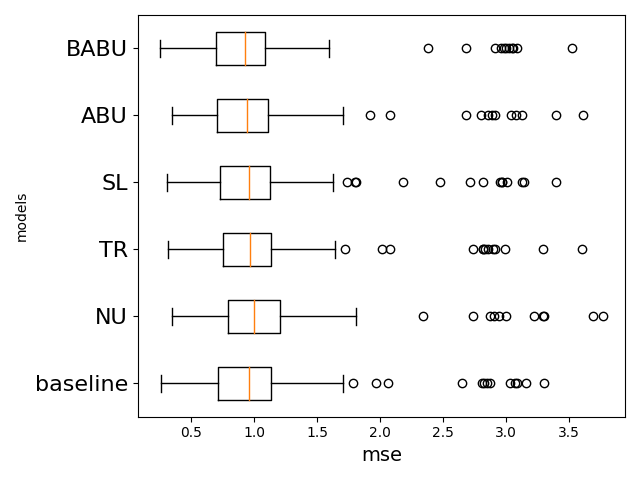
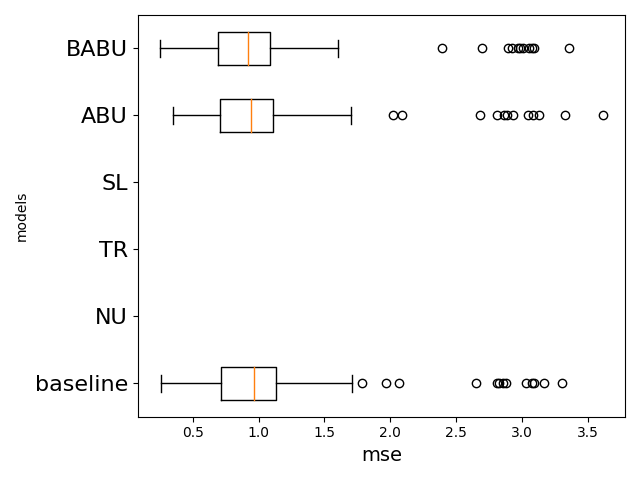
abu and babu seems fine for mse and poisson, need to fix for the other methods aswell

diff --git a/include/stabletrees/trees/tree.hpp b/include/stabletrees/trees/tree.hpp
@@ -36,7 +36,7 @@ class Tree{
         explicit Tree(); 
         bool all_same(const dVector &vec);
         bool all_same_features_values(const dMatrix  &X);
-        virtual Node* build_tree(const dMatrix  &X, const dVector &y, const dVector &g, const dVector &h, int depth, Node* previuos_tree_node);
+        virtual Node* build_tree(const dMatrix  &X, const dVector &y, const dVector &g, const dVector &h, int depth, Node* previuos_tree_node,const dVector &indicator = dVector(), const dVector &gamma = dVector());
         tuple<iVector, iVector> get_masks(dVector &feature, double value);
         virtual void learn(dMatrix  &X, dVector &y);
         void learn_difference(dMatrix  &X, dVector &y, dVector &g, dVector &h);
@@ -169,14 +169,16 @@ void Tree::learn(dMatrix  &X, dVector &y){
 
 
     dVector offset =  dVector::Constant(y.size(),0,  0);
-    pred_0 = loss_function->link_function(1.5*y.array().mean());//learn_initial_prediction(y,offset,loss_function); //
+    pred_0 = loss_function->link_function(y.array().mean());//learn_initial_prediction(y,offset,loss_function); //
     //pred_0 = 0;
     //printf("pred_0 %f %f \n", pred_0, loss_function->link_function(y.array().mean()+y.array().mean()/2));
     dVector pred = dVector::Constant(y.size(),0,  pred_0) ;
     dVector g = loss_function->dloss(y, pred ); //dVector::Zero(n1,1)
     dVector h = loss_function->ddloss(y, pred ); //dVector::Zero(n1,1)
+    dVector gamma = dVector::Constant(y.size(),0,  0) ;
+    dVector indicator = dVector::Constant(y.size(),0,  1) ;
     
-    this->root = build_tree(X, y,g, h, 0, NULL);
+    this->root = build_tree(X, y,g, h, 0, NULL,indicator,gamma);//
     
 }
 
@@ -186,7 +188,10 @@ void Tree::learn_difference(dMatrix  &X, dVector &y, dVector &g, dVector &h){
     //printf("min_samples_leaf: %d \n", min_samples_leaf);
     splitter = new Splitter(min_samples_leaf,total_obs, adaptive_complexity,max_features, learning_rate );
     n1 = total_obs;
-    this->root = build_tree(X, y,g, h, 0,NULL);
+    dVector gamma = dVector::Constant(y.size(),0,  0) ;
+    dVector indicator = dVector::Constant(y.size(),0,  1) ;
+    
+    this->root = build_tree(X, y,g, h, 0, NULL,indicator,gamma);//
 }
 
 
@@ -250,7 +255,7 @@ dVector Tree::predict(dMatrix  &X){
 }
 
 
-Node* Tree::build_tree(const dMatrix  &X, const dVector &y, const dVector &g, const dVector &h, int depth, Node* previuos_tree_node){
+Node* Tree::build_tree(const dMatrix  &X, const dVector &y, const dVector &g, const dVector &h, int depth, Node* previuos_tree_node,const dVector &indicator, const dVector &gamma){
     number_of_nodes +=1;
     tree_depth = max(depth,tree_depth);
     if(X.rows()<2 || y.rows()<2){
@@ -262,24 +267,25 @@ Node* Tree::build_tree(const dMatrix  &X, const dVector &y, const dVector &g, co
     int n = y.size();
     double G = g.array().sum();
     double H = h.array().sum();
-    double p = (H/(double)n)/exp(log(y.array().mean())) ;
-    double damping_h = 1.0;
-    //printf("%f %f \n", damping_h, p);
-    if(p < 0.5){
-        damping_h = 2.0/3.0;
-    }else if(p > 2.0/3.0){
-        damping_h = 3.0/2.0;
-        
-    }
     
-    
-    //printf("%f %f / %f , %d , %f \n", damping_h, (H/(double)n), exp(log(y.array().mean())), n, H);
-    double pred =  -G/H;//-damping_h*G/H; // ////pred_0-G/H;//loss_function->link_function(y.array().mean()) - pred_0;////
+   
+    double n2 = indicator.array().sum();
+    double gamma_sum = gamma.array().sum();
+    double y_sum = (y.array()*indicator.array()).sum();
+    double yprev_sum = (gamma.array()*y.array()*(1-indicator.array())).sum();
+    double pred = loss_function->link_function((y_sum+yprev_sum)/(n2+gamma_sum)) - pred_0;
+    //double pred = -G/H;
     //printf("-g/h = %f, y.mean() = %f, -G/H = %f \n", pred, y.array().mean(),pred_0-G/H);
-    if(std::isnan(pred)){
+    if(std::isnan(pred)|| std::isinf(pred)|| indicator.size()<=0){
         std::cout << "pred: " << pred << std::endl;
         std::cout << "G: " << G << std::endl;
         std::cout << "H: " << H << std::endl;
+        // std::cout << "n2: " << n2 << std::endl;
+        // std::cout << "gamma_sum: " << gamma_sum << std::endl;
+        // std::cout << "y_sum: " << y_sum << std::endl;
+        // std::cout << "yprev_sum: " << yprev_sum << std::endl;
+        // std::cout << "y: " << y.array().sum() << std::endl;
+        // std::cout << "indicator: " << indicator.size() << std::endl;
 
     }
     bool any_split;
@@ -397,6 +403,9 @@ Node* Tree::build_tree(const dMatrix  &X, const dVector &y, const dVector &g, co
     dMatrix X_right = X(mask_right,keep_cols); dVector y_right = y(mask_right,1);
     dVector g_left = g(mask_left,1); dVector h_left = h(mask_left,1);
     dVector g_right = g(mask_right,1); dVector h_right = h(mask_right,1);
+
+    dVector indicator_left = indicator(mask_left,1); dVector gamma_left = gamma(mask_left,1);
+    dVector indicator_right = indicator(mask_right,1); dVector gamma_right = gamma(mask_right,1);
     
     double loss_parent = (y.array() - pred).square().sum();
     //printf("loss_parent %f \n" ,loss_parent);
@@ -409,18 +418,18 @@ Node* Tree::build_tree(const dMatrix  &X, const dVector &y, const dVector &g, co
     Node* node = new Node(split_value, loss_parent/n, score, split_feature, y.rows() , pred, y_var, w_var,features_indices);
     
     if(previuos_tree_node !=NULL){//only applivable for random forest for remembering previous node sub features when updating a tree (or if max_features are less then total number of features)
-        node->left_child = build_tree( X_left, y_left, g_left,h_left, depth+1,previuos_tree_node->left_child);
+        node->left_child = build_tree( X_left, y_left, g_left,h_left, depth+1,previuos_tree_node->left_child, indicator_left,gamma_left);
     }else{
-        node->left_child = build_tree( X_left, y_left, g_left,h_left, depth+1,NULL);
+        node->left_child = build_tree( X_left, y_left, g_left,h_left, depth+1,NULL,indicator_left,gamma_left);
     }
     if(node->left_child!=NULL){
         node->left_child->w_var*=expected_max_S;
         node->left_child->parent_expected_max_S=expected_max_S;
     }
     if(previuos_tree_node !=NULL){ //only applivable for random forest for remembering previous node sub features when updating a tree (or if max_features are less then total number of features)
-        node->right_child = build_tree(X_right, y_right,g_right,h_right, depth+1,previuos_tree_node->right_child) ;
+        node->right_child = build_tree(X_right, y_right,g_right,h_right, depth+1,previuos_tree_node->right_child,indicator_right,gamma_right) ;
     }else{
-        node->right_child = build_tree(X_right, y_right,g_right,h_right, depth+1,NULL) ;
+        node->right_child = build_tree(X_right, y_right,g_right,h_right, depth+1,NULL,indicator_right,gamma_right) ;
     }
     if(node->right_child!=NULL){
         node->right_child->w_var *=expected_max_S;

diff --git a/include/stabletrees/trees/abutreeI.hpp b/include/stabletrees/trees/abutreeI.hpp
@@ -94,20 +94,20 @@ void AbuTreeI::update(dMatrix &X, dVector &y){
     // complete the squares 
     dVector hb = 2*weights.array();
     dVector gb = -1*hb.array().cwiseProduct(yb.array());
-    //yb = yb.array()+pred_0;
+    dVector indicator_b = dVector::Constant(yb.size(),0,  0) ;
+    yb = yb.array()+pred_0;
 
-    pred_0 = loss_function->link_function(y.array().mean()+y.array().mean()/2);//
-    // printf("pred_0: %f\n", pred_0);
-    //printf("index 5: %f %f \n", hb((43), yb(43)));
-    //pred_0 = 0;
+    pred_0 = loss_function->link_function(y.array().mean());//
     dVector pred = dVector::Constant(y.size(),0,  pred_0) ;
     // for (size_t i = 0; i < pred.size(); i++)
     // {
     //     printf("pred = %f \n", pred(i));
     // }
 
-    dVector g = loss_function->dloss(y, pred ); //dVector::Zero(n1,1)
-    dVector h = loss_function->ddloss(y, pred ); //dVector::Zero(n1,1)
+    dVector g = loss_function->dloss(y, pred ); 
+    dVector h = loss_function->ddloss(y, pred );
+    dVector gamma = dVector::Constant(y.size(),0,  0) ;
+    dVector indicator = dVector::Constant(y.size(),0,  1) ;
     
     // dVector g = loss_function->dloss(y, dVector::Zero(X.rows(),1)); 
     // dVector h = loss_function->ddloss(y, dVector::Zero(X.rows(),1) );
@@ -115,13 +115,11 @@ void AbuTreeI::update(dMatrix &X, dVector &y){
     dVector y_concat(y.rows()+yb.rows(), 1);
     dVector g_concat(g.rows() + gb.rows(), 1); 
     dVector h_concat(h.rows() + hb.rows(), 1); 
+
+    dVector gamma_concat(y.rows() + yb.rows(), 1); 
+    dVector indicator_concat(y.rows() + yb.rows(), 1);
     
 
-    // for (int i = 0; i < yb.size(); i++) {
-    //     if (std::isnan(yb(i))) {
-    //         std::cout << "yb contains NaN at index " << i << std::endl;
-    //     }
-    // }
      for (int i = 0; i < weights.size(); i++) {
         if (std::isnan(weights(i)) || weights(i)<=0) {
             std::cout << "weights contains NaN at index " << i <<" - "<< weights(i) << std::endl;
@@ -133,24 +131,14 @@ void AbuTreeI::update(dMatrix &X, dVector &y){
     h_concat <<h,hb;
     X_concat <<X,Xb;
     y_concat <<y, loss_function->inverse_link_function(yb.array());
-    // for (size_t i = 0; i < y.size(); i++)
-    // {
-    //     printf("g = %f \n", y(i));
-    // }
-    // for (size_t i = 0; i < g.size(); i++)
-    // {
-    //     printf("g = %f \n", g(i));
-    // }
-  
-    // for (size_t i = 0; i < g_concat.size(); i++)
-    // {
-    //     printf("g_concat = %f \n", g_concat(i));
-    // }
+    gamma_concat <<gamma, weights;
+    indicator_concat <<indicator, indicator_b;
+    
   
     total_obs = X_concat.rows();
     splitter = new Splitter(min_samples_leaf,total_obs, adaptive_complexity, max_features,learning_rate);
 
-    this->root = build_tree(X_concat, y_concat, g_concat, h_concat, 0,this->root);
+    this->root = build_tree(X_concat, y_concat, g_concat, h_concat, 0,this->root,indicator_concat, gamma_concat);
     n1 = total_obs;
 }
 

diff --git a/include/stabletrees/trees/newtree.hpp b/include/stabletrees/trees/newtree.hpp
@@ -147,7 +147,7 @@ void NewTree::learn(dMatrix  &X, dVector &y){
 
 
     dVector offset =  dVector::Constant(y.size(),0,  0);
-    pred_0 = loss_function->link_function(1.5*y.array().mean());//learn_initial_prediction(y,offset,loss_function); //
+    pred_0 = loss_function->link_function(y.array().mean());//learn_initial_prediction(y,offset,loss_function); //
     //pred_0 = 0;
     //printf("pred_0 %f %f \n", pred_0, loss_function->link_function(y.array().mean()+y.array().mean()/2));
     dVector pred = dVector::Constant(y.size(),0,  pred_0) ;
@@ -253,12 +253,15 @@ Node* NewTree::build_tree(const dMatrix  &X, const dVector &y, const dVector &g,
     double y_sum = (y.array()*indicator.array()).sum();
     double yprev_sum = (gamma.array()*y.array()*(1-indicator.array())).sum();
     double pred = loss_function->link_function((y_sum+yprev_sum)/(n2+gamma_sum)) - pred_0;
+
     //double pred =  loss_function->link_function(y.array().mean()) - pred_0;//-G/H;//loss_function->link_function(y.array().mean()) - pred_0;//loss_function->link_function((y_sum+yprev_sum)/(n2+gamma_sum)) - pred_0;
     if(std::isnan(pred)|| std::isinf(pred)){
         std::cout << "pred: " << pred << std::endl;
         std::cout << "G: " << G << std::endl;
         std::cout << "H: " << H << std::endl;
-
+        std::cout << "n2: " << n2 << std::endl;
+        std::cout << "gamma_sum: " << gamma_sum << std::endl;
+        std::cout << "yprev_sum: " << yprev_sum << std::endl;
     }
     bool any_split;
     double score;
@@ -494,10 +497,7 @@ void NewTree::update(dMatrix &X, dVector &y){
     dVector indicator_b = dVector::Constant(yb.size(),0,  0) ;
     yb = yb.array()+pred_0;
 
-    pred_0 = loss_function->link_function(y.array().mean()+y.array().mean()/2);//
-    // printf("pred_0: %f\n", pred_0);
-    //printf("index 5: %f %f \n", hb((43), yb(43)));
-    //pred_0 = 0;
+    pred_0 = loss_function->link_function(y.array().mean()+y.array().mean()/2);
     dVector pred = dVector::Constant(y.size(),0,  pred_0) ;
 
     // for (size_t i = 0; i < pred.size(); i++)

diff --git a/StableTrees_examples/poisson_test.py b/StableTrees_examples/poisson_test.py
@@ -11,18 +11,21 @@ from matplotlib import pyplot as plt
 n = 1000
 np.random.seed(0)
 X = np.random.uniform(low=0,high=4,size=(n,1))
+
 y = np.random.poisson(lam=np.exp(X[:,0]),size=n)
+print(X.shape, y.shape)
+print(X, y.shape)
 #y = np.random.normal(loc = X.ravel()**2,scale=1,size=  n)
 X1,X2,y1,y2 = train_test_split(X,y,test_size=0.5,random_state=0)
 
-criterion = "mse"
+criterion = "poisson"
 
 
-t = DecisionTreeRegressor(criterion=criterion, max_depth=10,min_samples_leaf=5, ccp_alpha=0.01).fit(X1,y1)
 
-t2 =BABUTree(criterion=criterion, adaptive_complexity=True,min_samples_leaf=5).fit(X1,y1)
+t2 =AbuTreeI(criterion=criterion, adaptive_complexity=True,min_samples_leaf=5).fit(X1,y1)
 t1 = BaseLineTree(criterion=criterion, adaptive_complexity=True,min_samples_leaf=5).fit(X1,y1)
-pred = t1.predict(X)
+ind = np.argsort(X, axis=0).ravel()
+pred = t1.predict(X[ind,:])
 # t1.update(X,y)
 
 print(y.sum())
@@ -36,22 +39,22 @@ print(y1.sum())
 #pred3 =t1.predict(X)
 t1.update(X,y)
 t2.update(X,y)
-pred4 =t1.predict(X)
-pred2 =t2.predict(X)
+pred4 =t1.predict(X[ind,:])
+pred2 =t2.predict(X[ind,:])
 #print(pred)
-t1 = BaseLineTree(criterion=criterion, adaptive_complexity=True,min_samples_leaf=5).fit(X,y)
-pred5 =t1.predict(X)
-plt.scatter(X,y)
+t = BaseLineTree(criterion=criterion, adaptive_complexity=True,min_samples_leaf=5).fit(X,y)
+pred5 =t.predict(X[ind,:])
+plt.scatter(X,y, s= 10)
 
-plt.scatter(X,pred4,c ="g",label= "my baseline", s = 2) #first
+plt.plot(X[ind,:],pred,c ="black",label= "base") #first
 #plt.scatter(X,pred3,c ="orange", s = 8) #t2
-#plt.scatter(X,pred4,c ="r", s = 2) #combined
-plt.scatter(X,pred2,c ="r", s = 2,label= "babu") #combined
-plt.scatter(X,pred5,c ="m", s = 2)
+plt.plot(X[ind,:],pred2,c ="r",label= "ABU") #combined
+
+plt.plot(X[ind,:],pred5,c ="y",label= "base retrained")
 
 plt.legend()
 plt.show()
-print(pred2-pred4)
+print(pred-pred5)
 
 
 # X1 = np.array([1,2,3,4]).reshape(-1,1)

diff --git a/StableTrees_examples/example_one.py b/StableTrees_examples/example_one.py
@@ -93,9 +93,9 @@ for ds,target, feature in zip(datasets,targets, features):
                 "baseline": BaseLineTree(criterion = criterion,min_samples_leaf=5, adaptive_complexity=True),
                 #"GLM": LinearRegression(),
                 #"sklearn": SklearnTree(criterion = criterion,**params),
-                "NU": NaiveUpdate(criterion = criterion,min_samples_leaf=5, adaptive_complexity=True,),
-                "TR":TreeReevaluation(criterion = criterion,min_samples_leaf=5, adaptive_complexity=True, delta=0.25),
-                "SL":StabilityRegularization(criterion = criterion,min_samples_leaf=5, adaptive_complexity=True,lmbda=0.75),
+                #"NU": NaiveUpdate(criterion = criterion,min_samples_leaf=5, adaptive_complexity=True,),
+                #"TR":TreeReevaluation(criterion = criterion,min_samples_leaf=5, adaptive_complexity=True, delta=0.25),
+                #"SL":StabilityRegularization(criterion = criterion,min_samples_leaf=5, adaptive_complexity=True,lmbda=0.75),
                 "ABU":AbuTreeI(criterion = criterion,min_samples_leaf=5,adaptive_complexity=True),
                 "BABU": BABUTree(criterion = criterion,min_samples_leaf=5, adaptive_complexity=True)
                 

diff --git a/python-package/src/stabletrees/tree.py b/python-package/src/stabletrees/tree.py
@@ -141,7 +141,7 @@ class BaseLineTree(BaseRegressionTree):
         
         self.root = None
         super().__init__(criterion,max_depth, min_samples_split,min_samples_leaf, adaptive_complexity,max_features, random_state)
-        self.tree = NewTree(criterions[self.criterion], self.max_depth,self.min_samples_split,self.min_samples_leaf, self.adaptive_complexity,self.max_features,self.learning_rate,self.random_state)
+        self.tree = Tree(criterions[self.criterion], self.max_depth,self.min_samples_split,self.min_samples_leaf, self.adaptive_complexity,self.max_features,self.learning_rate,self.random_state)
     
     def update(self,X : np.ndarray ,y : np.ndarray):
         return self.fit(X,y)
